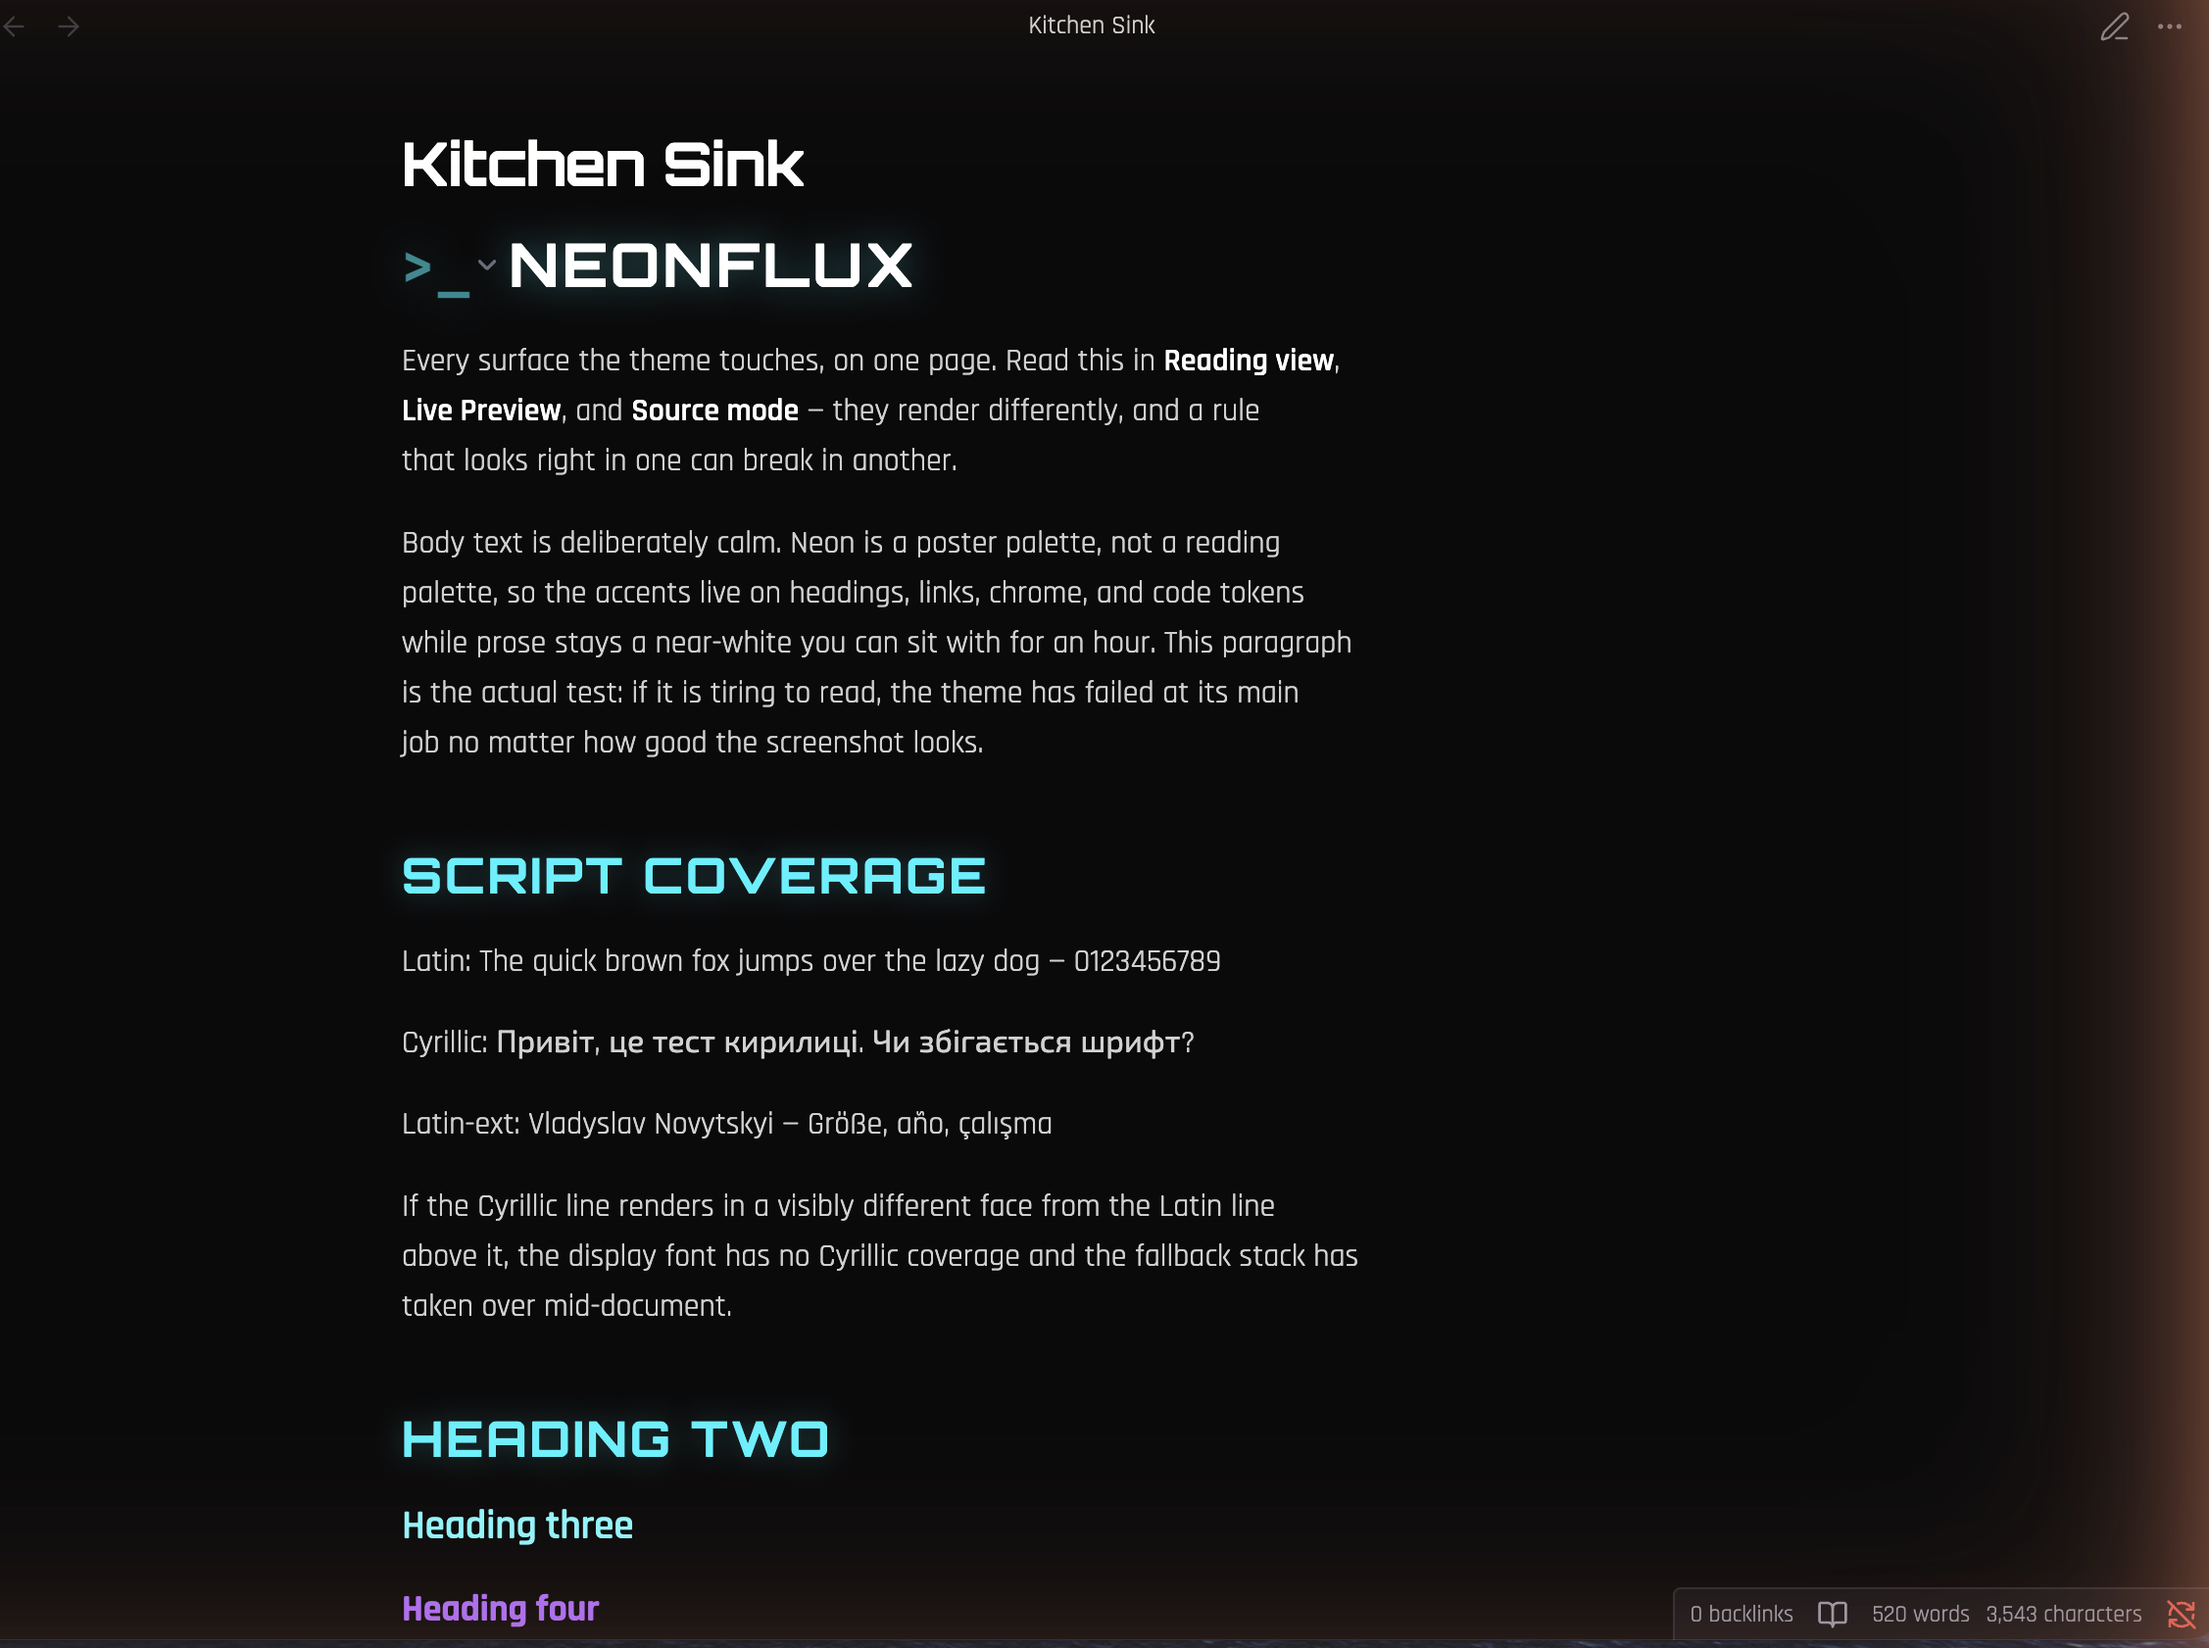
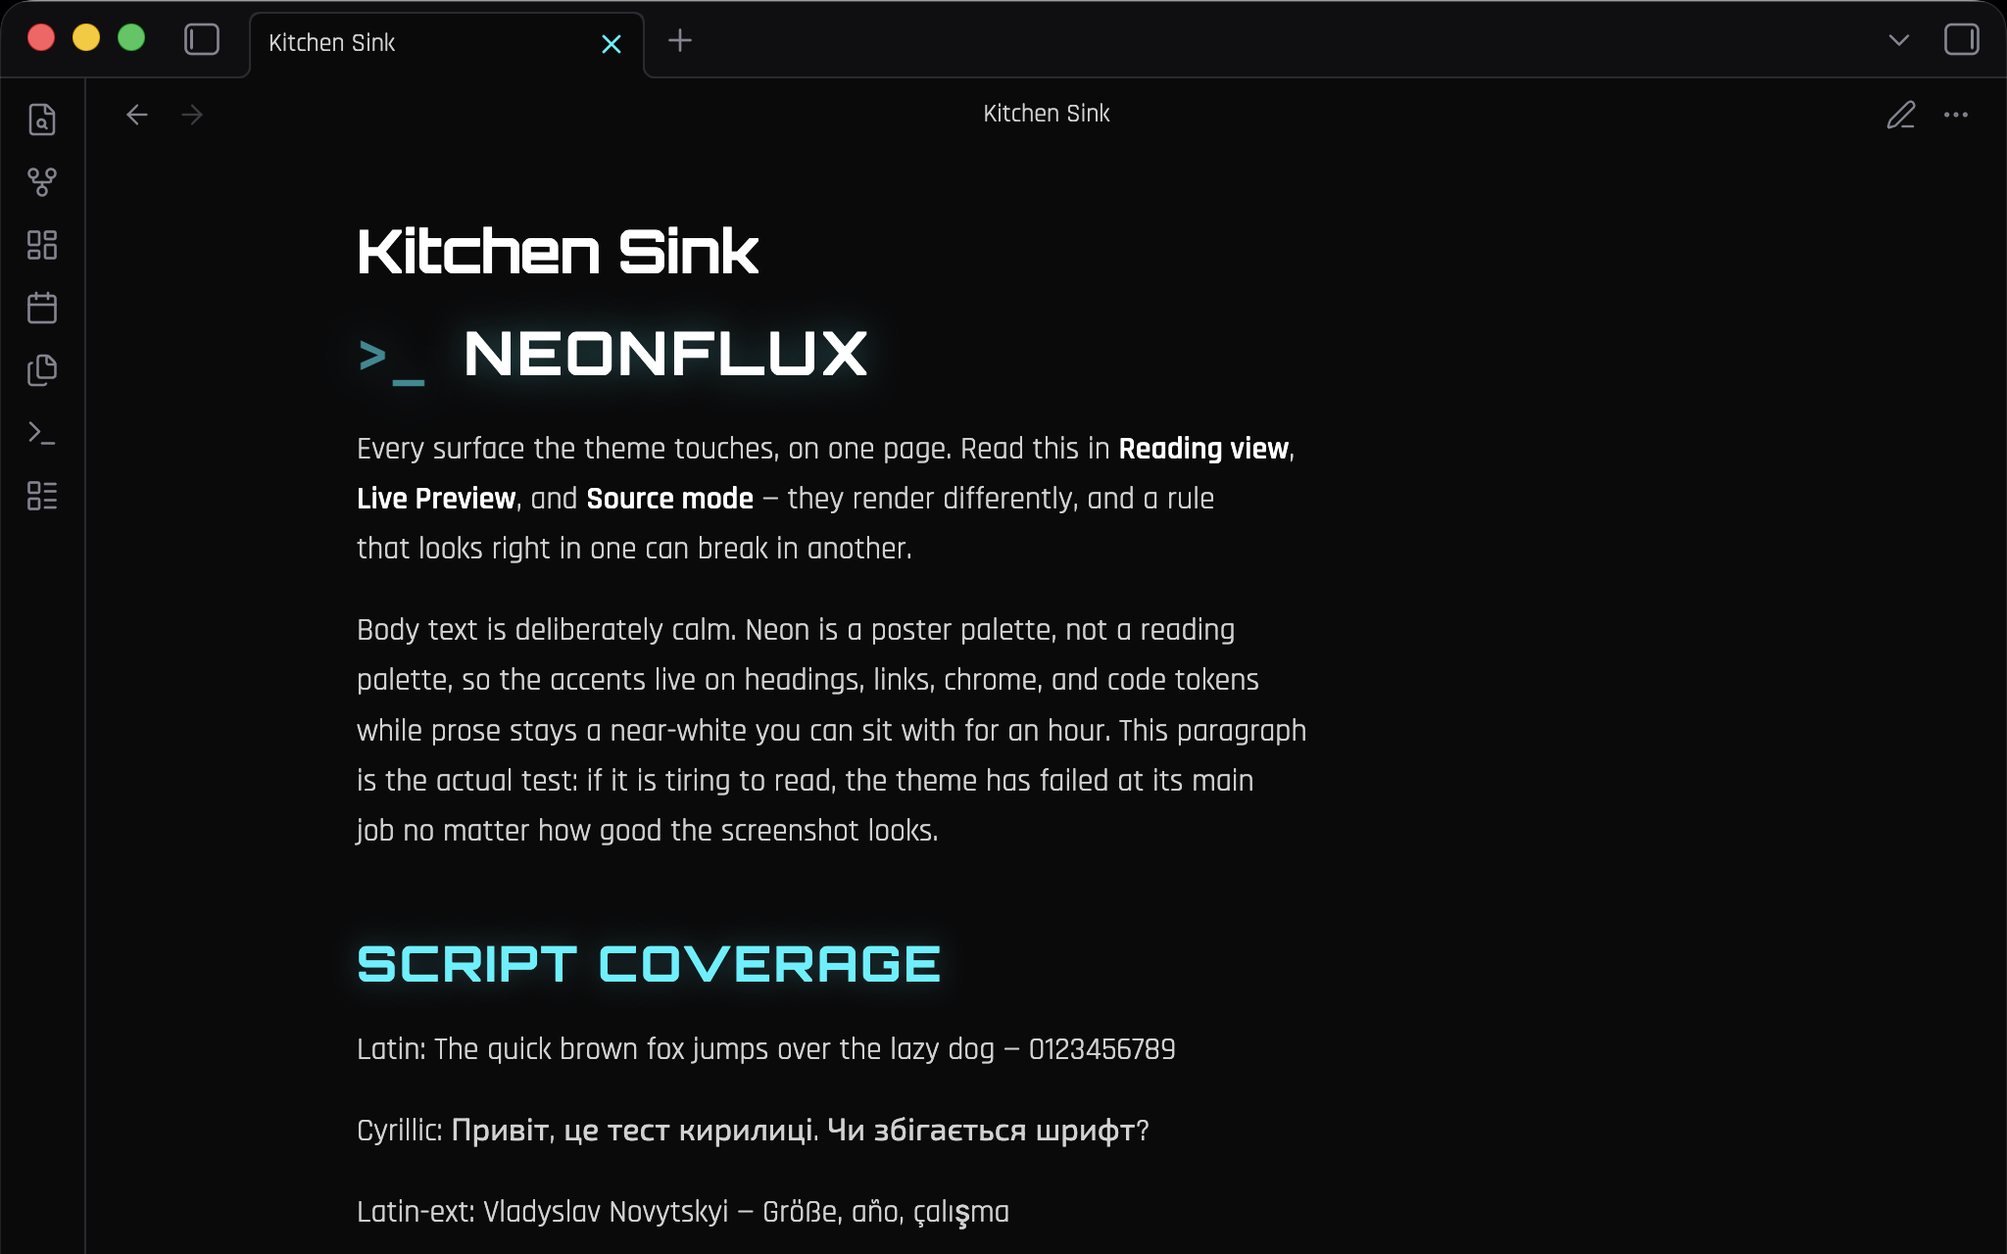
docs: show light mode instead of asserting it
The README led with light mode being "not an afterthought" and then showed
only a dark capture — the claim went unevidenced in the one place people
decide from, and the registry entry already claims `modes: [dark, light]`.

Both shots are the same note, same window, same scroll position, with only
the colour scheme changed between them, so the pair reads as a comparison
rather than as two unrelated images.

Also fixes the aspect ratio. The old dark.png was 1.34 against a field
clustered between 1.50 and 1.78, which made ours the thumbnail that
letterboxes in a grid. The new pair is 2048x1280, ratio 1.60. Both come from
the same 2048x1600 window: the dark capture carried the window's drop shadow,
so it was cropped to the window bounds — detected rather than eyeballed, and
exactly 2048x1600, confirming the two were the same window — then both were
trimmed 320px off the bottom to reach the ratio. That trim costs the status
bar and the "Heading two" section and keeps the script-coverage block, which
is the more distinguishing content.

docs/screenshots/README.md now records the capture procedure that produced
this pair, including the two things that went wrong first: an open search
sidebar eating a third of the frame, and Option-click being what drops the
window shadow.

Closes 0.2.0.

diff --git a/docs/screenshots/README.md b/docs/screenshots/README.md
@@ -1,8 +1,29 @@
 Screenshots for the README and the Obsidian community themes listing.
 
-`dark.png` is the one the README embeds. Capture it from the demo vault's
-Kitchen Sink note in **Reading view** — the `>_` prompt before the H1 only
-renders there.
+`dark.png` is the one the gallery shows; `light.png` is for the README. Both
+are the **Kitchen Sink** note in **Reading view** — the `>_` prompt before the
+H1 only renders there.
+
+## Capturing a replacement pair
+
+The pair only works as a comparison if nothing but the colour scheme changes,
+so capture both in one sitting:
+
+1. Open Kitchen Sink directly, not embedded in another note. The tab should
+   read *Kitchen Sink* and the status bar ~520 words.
+2. Collapse the left sidebar (`Cmd+P` → "Toggle left sidebar"). An open search
+   pane is a third of the frame spent on "No matches found."
+3. Scroll to the top and do not move, resize or scroll between the two shots.
+4. Capture with `Cmd+Shift+4`, `Space`, then **Option-click** — Option drops
+   the window shadow, so the edges are clean. Without it the capture carries a
+   soft black margin the other shot will not have.
+5. Change only **Settings → Appearance → Base color scheme** between them.
+
+Both are then cropped to identical dimensions. The current pair is 2048x1280,
+taken from a 2048x1600 window with 320px trimmed off the bottom to reach the
+aspect ratio below; that trim costs the status bar and the "Heading two"
+section, and keeps the script-coverage block, which is the more distinguishing
+content.
 
 ## What the gallery actually takes
 

diff --git a/README.md b/README.md
@@ -12,6 +12,11 @@ Palette shared with [`@laddtnov/cyberpunk-ui`](https://github.com/laddtnov/cyber
 
 ![Neonflux in dark mode](docs/screenshots/dark.png)
 
+![Neonflux in light mode](docs/screenshots/light.png)
+
+Same note, same window, same scroll position — the only difference is the
+colour scheme.
+
 ## What it is
 
 A neon-on-near-black theme for people who read in Obsidian for hours, built so
